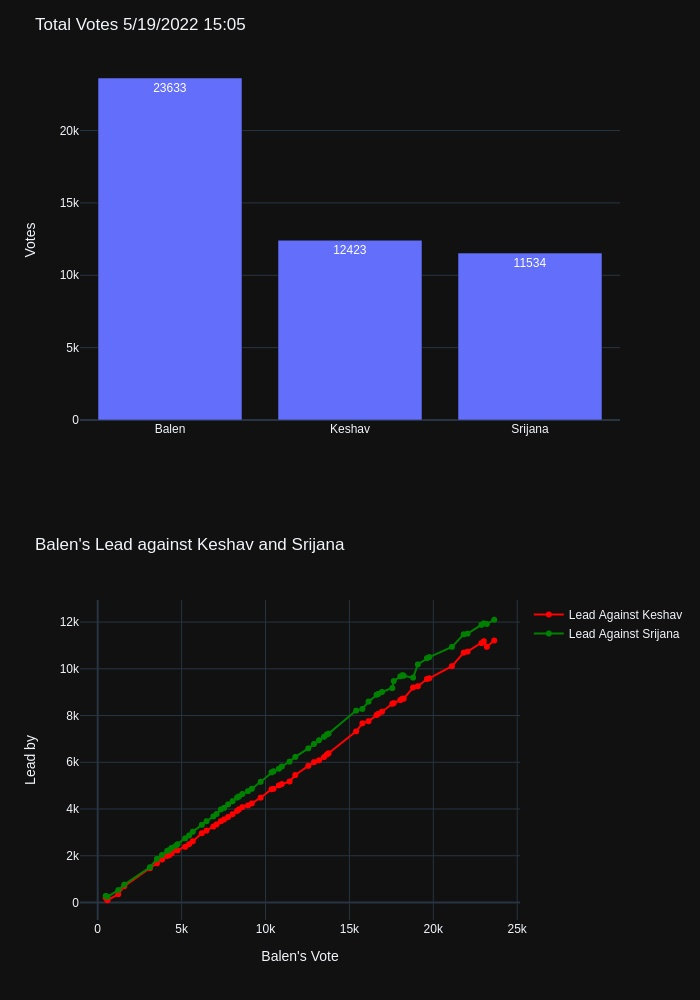
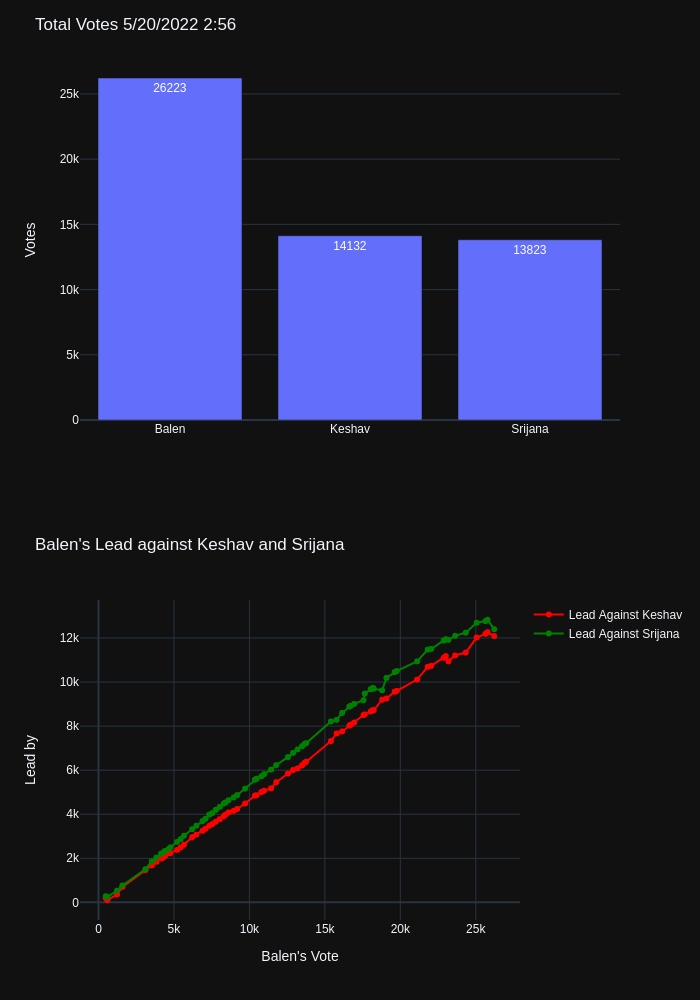
Core ward begins

diff --git a/README.md b/README.md
@@ -1,4 +1,4 @@
-## Last Update: 5/19/2022 15:05
+## Last Update: 5/20/2022 2:56
 
 ## Balen's Lead against Keshav Sthapit and Srijana Singh
 ![ScreenShot](final.jpg)
